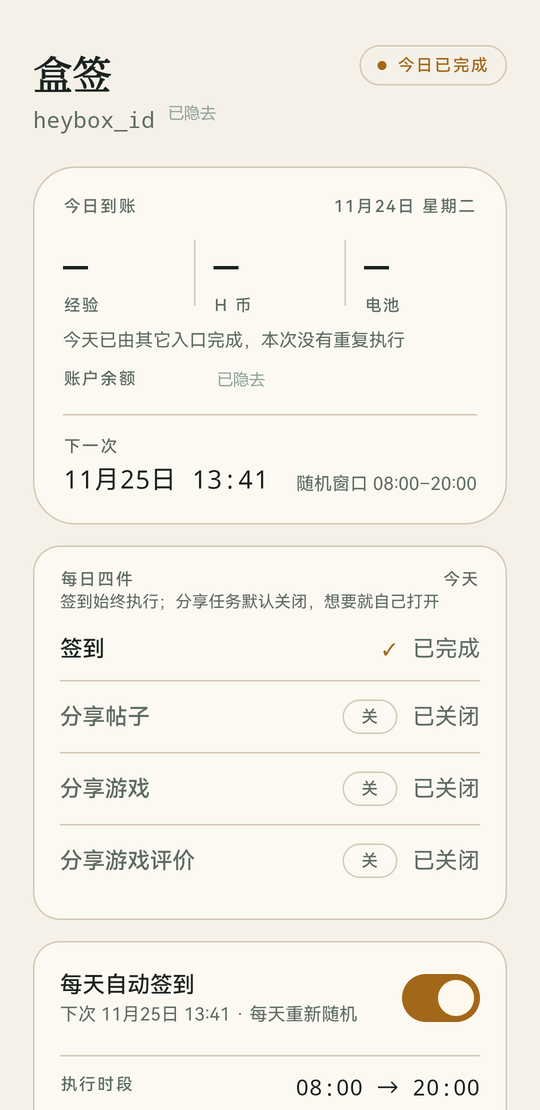
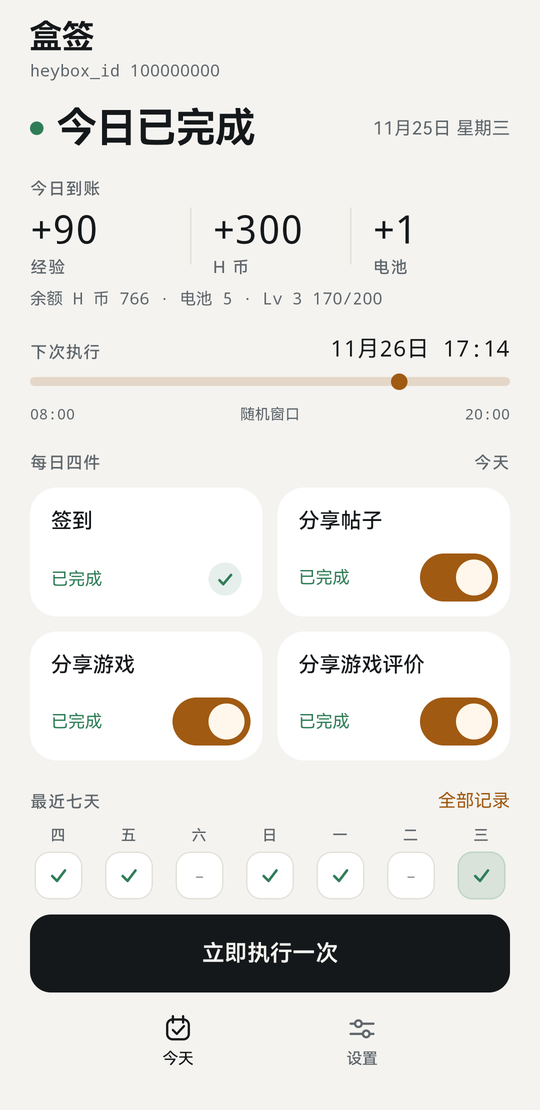
docs: refresh screenshots for the new home

diff --git a/README.md b/README.md
@@ -19,15 +19,15 @@
 | :---: | :---: |
 | ![首页 夜间](docs/screenshots/home-dark.png) | ![首页 白天](docs/screenshots/home-light.png) |
 
+| 设置 | 记录 |
+| :---: | :---: |
+| ![设置](docs/screenshots/settings.png) | ![记录](docs/screenshots/record.png) |
+
 | 首启说明 | 登录 |
 | :---: | :---: |
 | ![首启说明](docs/screenshots/welcome.png) | ![登录](docs/screenshots/login.png) |
 
-桌面小组件（华为 EMUI 会把 4×1 卡片拉成方形）：
-
-![小组件](docs/screenshots/widget.png)
-
-截图中的 `heybox_id` 与账户余额已隐去。
+截图用演示账号（`heybox_id 100000000`）拍摄，数字不是真实数据。
 
 ## 下载安装
 
@@ -42,7 +42,7 @@
 - **每天自动签到**：在可配置时段（默认 08:00–20:00）内随机挑时刻，跑完自动排下一天
 - **可选分享**：分享帖子 / 游戏 / 评价三个独立开关，**默认全关**，需要就自己打开
 - **结果可见**：成功失败都有通知，失败通知上带「立即重试」
-- **首页账单**：今日增量、账户余额、最近七天记录
+- **首页账单**：今日增量、账户余额、随机窗口时间轴、最近七天；自动签到与权限收在「设置」页签
 - **登录过期可恢复**：首页提示重新登录，定时、外观、历史都保留
 - **两套外观**：夜间 / 白天，可跟随系统；4×1 与 2×2 桌面小组件
 - **首启说明**：开始之前把「它做什么、数据去哪、你要承担什么」讲清楚
@@ -63,7 +63,7 @@
 
 ## 装好之后
 
-国产 ROM 会在夜里清理后台，首页「值守条件」可以逐项自查：
+国产 ROM 会在夜里清理后台，「设置 → 值守条件」可以逐项自查：
 
 | 条件 | 作用 |
 | --- | --- |
